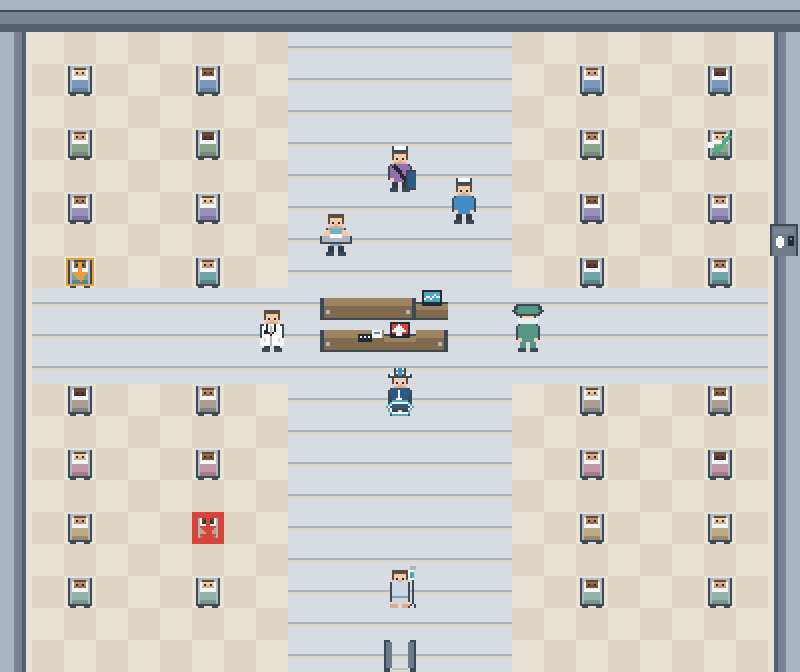
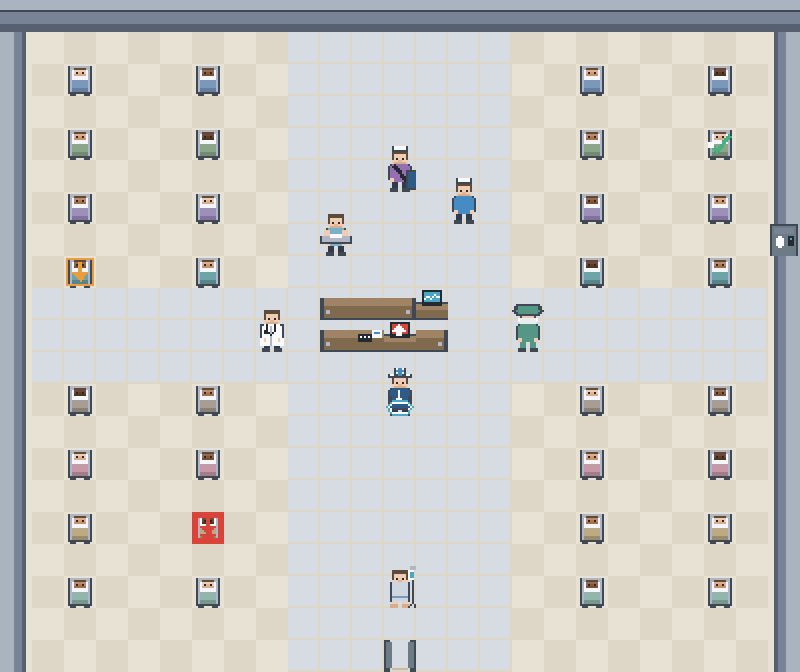
Draw the floor under the ward, and make corridor tiles read as squares
Two visual defects, both mine rather than the artwork's.

Beds, desks and doors are drawn with transparent margins so they can sit on any
floor, but the map loop blitted them straight onto the surface, which draw()
fills with the HUD's panel colour. Every bed therefore had a black surround and
the packed bays merged into black ladders. The map now lays a ground layer
first. PANEL_BG is not in the 48-colour art palette, so a test asserting it
never appears over the map pins this exactly; without the ground layer that
test fails and every other assertion still passes.

The corridor tile carried its seam across the middle rather than along its
edges, so tiling joined the seams into continuous horizontal stripes and the
corridor read as floorboards instead of tiles. The seam now runs along two
edges and produces a grid of squares the same size as the bay chequer.

Bay floor was also a one-tile halo around each bed, tracing a ragged warm
outline; widening it to two makes the bays read as rooms with the corridors
running cool between them, as in docs/asset-qa/ward_composition.png.

Also from the second Codex review: the static forbidden-import sweep exempted
every native import in pygame_renderer.py whenever the file merely contained
the string "rgb_array", so a lazy `import torch` in any other method would have
passed. It is now an AST walk allowing exactly numpy inside to_rgb_array(),
with a positive control. The open-backed gown is now pinned by a test.

Changed region(s): [[0.0312, 0.0625, 0.9688, 1.0]]

diff --git a/tests/test_web_bundle.py b/tests/test_web_bundle.py
@@ -198,23 +198,93 @@ def test_env_module_is_correctly_excluded_from_the_web_bundle():
     )
 
 
+# The only lazy native import the browser-shipped tree is allowed: numpy inside
+# WardRenderer.to_rgb_array(), which exists for the Gymnasium rgb_array render
+# mode and never runs in a browser. Keyed by (file, module, enclosing function)
+# so an exemption cannot spread to the rest of the file.
+ALLOWED_LAZY_IMPORTS = {
+    ("ward_cgm_sim/render/pygame_renderer.py", "numpy", "to_rgb_array"),
+}
+
+
+def forbidden_imports(path: Path, relative: str):
+    """Every forbidden import in a file, tagged with its enclosing function.
+
+    An AST walk rather than a text scan: the previous version exempted the
+    whole renderer whenever the file merely contained the string "rgb_array",
+    so a lazy `import torch` anywhere in it would have gone unnoticed.
+    """
+    import ast
+
+    found = []
+
+    def walk(node, scope):
+        for child in ast.iter_child_nodes(node):
+            inner = child.name if isinstance(
+                child, (ast.FunctionDef, ast.AsyncFunctionDef)
+            ) else scope
+            if isinstance(child, ast.Import):
+                roots = [alias.name.split(".")[0] for alias in child.names]
+            elif isinstance(child, ast.ImportFrom):
+                roots = [(child.module or "").split(".")[0]]
+            else:
+                roots = []
+            for root in roots:
+                if root in FORBIDDEN:
+                    found.append((relative, root, inner))
+            walk(child, inner)
+
+    walk(ast.parse(path.read_text(), filename=str(path)), None)
+    return found
+
+
 def test_no_web_safe_module_mentions_a_forbidden_import():
-    """Static sweep, to catch a lazily-imported dependency the runtime checks
-    above would miss."""
+    """Static sweep, catching a lazily-imported dependency the runtime checks
+    above would miss because they never call the offending method."""
     package = REPO_ROOT / "ward_cgm_sim"
     offenders = []
-    for path in package.rglob("*.py"):
-        relative = path.relative_to(REPO_ROOT)
+    scanned = 0
+    for path in sorted(package.rglob("*.py")):
         if path.name == "env.py":
             continue  # native-only by design
-        text = path.read_text()
-        for name in FORBIDDEN:
-            for line in text.splitlines():
-                stripped = line.strip()
-                if stripped.startswith(("import ", "from ")) and name in stripped:
-                    # The renderer imports numpy lazily inside rgb_array only,
-                    # which never runs in the browser.
-                    if "rgb_array" in text and path.name == "pygame_renderer.py":
-                        continue
-                    offenders.append(f"{relative}: {stripped}")
+        scanned += 1
+        relative = path.relative_to(REPO_ROOT).as_posix()
+        for entry in forbidden_imports(path, relative):
+            if entry not in ALLOWED_LAZY_IMPORTS:
+                offenders.append(f"{entry[0]}: import {entry[1]} in {entry[2]}()")
+
+    assert scanned > 10, "positive control: the sweep must actually read files"
     assert not offenders, "forbidden imports in web-shipped modules:\n" + "\n".join(offenders)
+
+
+def test_the_static_sweep_catches_a_lazy_import_anywhere_else(tmp_path):
+    """Positive control for the exemption.
+
+    The allowance is for one module, in one function. A forbidden import in a
+    different function of the same file - or a different module in the allowed
+    one - has to still be reported.
+    """
+    sample = tmp_path / "pygame_renderer.py"
+    sample.write_text(
+        "def to_rgb_array(self):\n"
+        "    import numpy as np\n"
+        "    return np\n"
+        "\n"
+        "def somewhere_else(self):\n"
+        "    import torch\n"
+        "    return torch\n"
+        "\n"
+        "def to_rgb_array_evil(self):\n"
+        "    import gymnasium\n"
+        "    return gymnasium\n",
+        encoding="utf-8",
+    )
+    relative = "ward_cgm_sim/render/pygame_renderer.py"
+    found = set(forbidden_imports(sample, relative))
+    assert (relative, "numpy", "to_rgb_array") in found, "the sweep found nothing at all"
+
+    reported = found - ALLOWED_LAZY_IMPORTS
+    assert (relative, "torch", "somewhere_else") in reported
+    assert (relative, "gymnasium", "to_rgb_array_evil") in reported
+    # ...and the genuine exemption is the only thing filtered out.
+    assert len(reported) == len(found) - 1

diff --git a/tests/test_render_assets.py b/tests/test_render_assets.py
@@ -180,3 +180,37 @@ def test_reserved_clinical_colours_do_not_leak_into_identity_art():
                 assert used == {palette_by_name["alarm_red"]}
             else:
                 assert not used, f"reserved clinical colour leaked into tile {tile_index + 1}"
+
+
+def test_up_facing_patients_show_the_open_backed_gown():
+    """The gown's open back is a brief requirement and easy to lose silently.
+
+    Without this, deleting the opening from the generator and regenerating
+    would leave every other asset assertion green.
+    """
+    manifest = load_manifest()
+    palette = {entry["name"]: entry["index"] for entry in manifest["palette"]["entries"]}
+    opening = palette["deep_neutral"]
+
+    items = manifest["sheets"]["characters.png"]["items"]
+    facing = {
+        direction: [i for i in items
+                    if i["character"] == "patient_walking" and i["direction"] == direction]
+        for direction in ("up", "down")
+    }
+    assert len(facing["up"]) == 3 and len(facing["down"]) == 3, "positive control"
+
+    with Image.open(ASSETS / "characters.png") as sheet:
+        def torso(item):
+            # Torso band only: the head sits above y=13, so the dark eye pixels
+            # on forward-facing frames cannot be mistaken for the opening.
+            box = (item["x"], item["y"] + 13, item["x"] + 16, item["y"] + 20)
+            return list(pixels(sheet.crop(box)))
+
+        for item in facing["up"]:
+            count = torso(item).count(opening)
+            assert count > 0, f"no gown opening in the {item['frame']} up frame"
+        for item in facing["down"]:
+            assert torso(item).count(opening) == 0, (
+                "the opening must only show from behind"
+            )

diff --git a/ward_cgm_sim/render/pygame_renderer.py b/ward_cgm_sim/render/pygame_renderer.py
@@ -117,9 +117,14 @@ class WardRenderer:
             for x in range(ward_map.width):
                 tile = ward_map.tile(x, y)
                 pos = (x * TILE, y * TILE)
+                # Ground layer first. Beds, desks and doors are drawn with
+                # transparent margins so they can sit on any floor; without
+                # one beneath them the panel fill shows through and every bed
+                # gets a black surround.
+                self.surface.blit(self.sprites.tile(self._floor_name(x, y)), pos)
                 if tile == BED:
                     self._draw_bed(x, y)
-                else:
+                elif tile != FLOOR:
                     self.surface.blit(self.sprites.tile(self._tile_name(tile, x, y)), pos)
 
         self._draw_queue()
@@ -187,12 +192,15 @@ class WardRenderer:
 
     def _floor_name(self, x: int, y: int) -> str:
         ward_map = self.engine.ward_map
-        beside_a_bed = any(
+        # Two tiles, not one: a single-tile halo leaves a ragged warm outline
+        # tracing each bed, where the bays should read as whole rooms with the
+        # corridors running cool between them.
+        in_a_bay = any(
             ward_map.tile(x + dx, y + dy) == BED
-            for dx in (-1, 0, 1)
-            for dy in (-1, 0, 1)
+            for dx in range(-2, 3)
+            for dy in range(-2, 3)
         )
-        if not beside_a_bed:
+        if not in_a_bay:
             return "corridor_floor"
         # Chequerboard inside the bays, so the bed areas read as distinct
         # spaces rather than one continuous floor.

diff --git a/tests/test_renderer.py b/tests/test_renderer.py
@@ -394,3 +394,21 @@ def test_the_station_board_shows_both_monitor_states():
     # because in that arm there is no dashboard to light up.
     renderer.engine.cfg.telemetry_enabled = False
     assert renderer._station_name(*monitor) == "desk_monitor_on"
+
+
+def test_the_ward_floor_is_drawn_under_every_feature_tile():
+    """Beds, desks and doors are drawn with transparent margins.
+
+    With no floor beneath them the HUD's panel fill showed through and every
+    bed gained a black surround - glaring on screen, and invisible to every
+    other assertion in this file. PANEL_BG is not in the 48-colour art palette,
+    so finding it anywhere over the map means a tile is missing its ground layer.
+    """
+    renderer = run_shift(steps=20)
+    ward_map = renderer.engine.ward_map
+    ward = pygame.Rect(0, 0, ward_map.width * TILE, ward_map.height * TILE)
+    drawn = colours(renderer.surface, ward)
+    assert len(drawn) > 20, "positive control: the map must actually be drawn"
+    assert pygame_renderer.PANEL_BG not in drawn, (
+        "the panel background is showing through a feature tile"
+    )

diff --git a/scripts/generate_ward_assets.py b/scripts/generate_ward_assets.py
@@ -238,8 +238,11 @@ def draw_tiles() -> Image.Image:
     tiles.append(tile)
     tile = _floor("corridor_cool")
     d = ImageDraw.Draw(tile)
-    line(d, [(0, 7), (15, 7)], "wall_top")
-    line(d, [(0, 8), (15, 8)], "floor_mid")
+    # Grout along two edges, so tiling produces a grid of squares the same size
+    # as the bay tiles. A seam across the middle instead joins up into
+    # continuous horizontal stripes and the corridor reads as floorboards.
+    line(d, [(0, 15), (15, 15)], "floor_mid")
+    line(d, [(15, 0), (15, 15)], "floor_mid")
     tiles.append(tile)
     tile = _floor("threshold")
     d = ImageDraw.Draw(tile)
